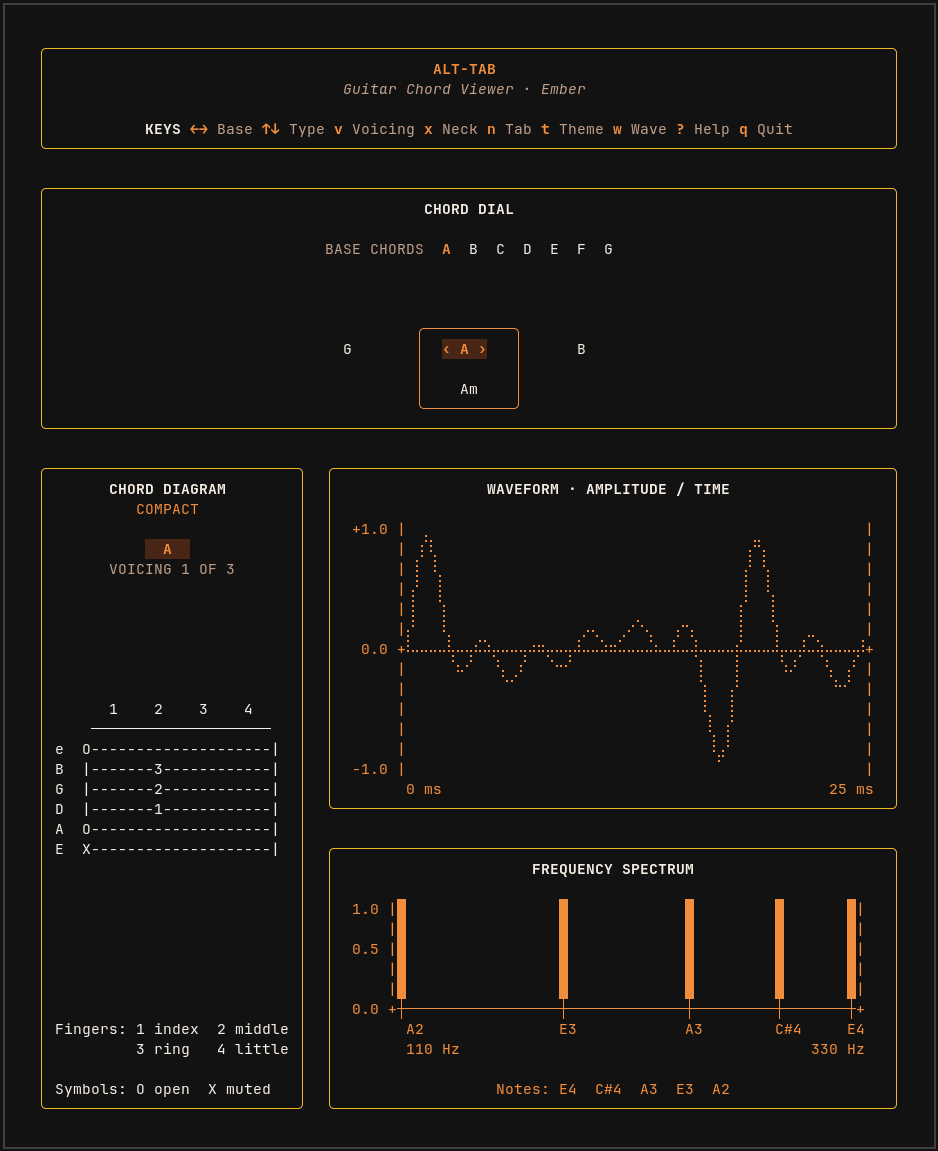
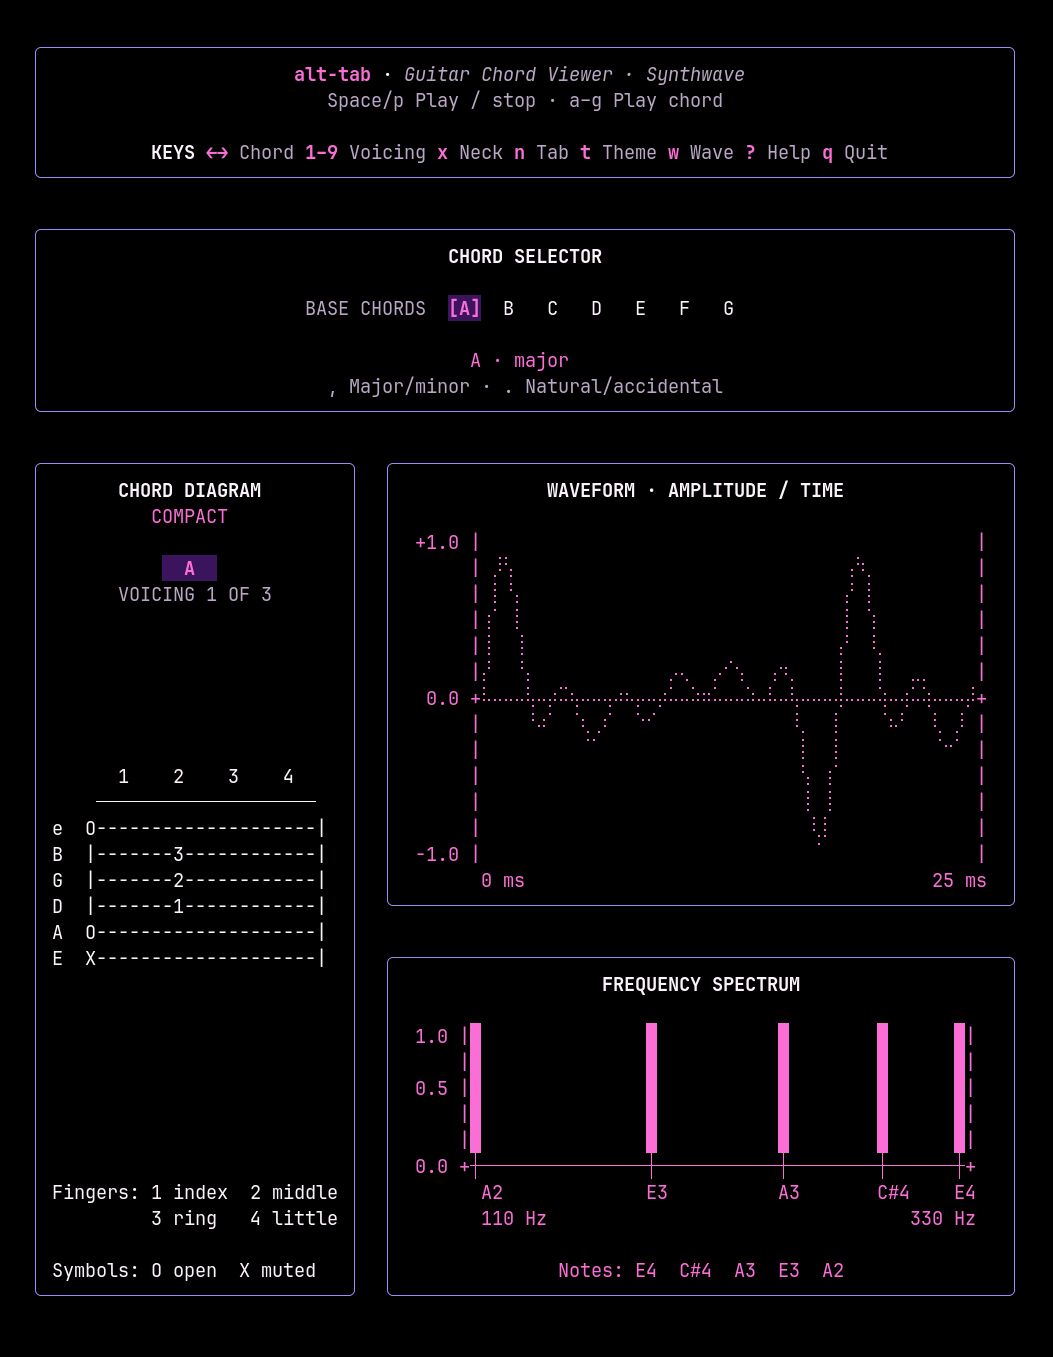
ui: make Synthwave the default theme

diff --git a/internal/tui/styles.go b/internal/tui/styles.go
@@ -29,13 +29,13 @@ type palette struct {
 // palettes are in cycling order, with the startup default first.
 var palettes = []palette{
 	{
-		name:       "Ember",
-		accent:     colorPair{light: "#C2410C", dark: "#FB923C"},
-		text:       colorPair{light: "#321A0F", dark: "#FFF7ED"},
-		muted:      colorPair{light: "#786052", dark: "#C6A58E"},
-		border:     colorPair{light: "#D97706", dark: "#FBBF24"},
-		selection:  colorPair{light: "#FFEDD5", dark: "#4A2615"},
-		errorColor: colorPair{light: "#B91C1C", dark: "#FF6B6B"},
+		name:       "Synthwave",
+		accent:     colorPair{light: "#A21CAF", dark: "#FF70D9"},
+		text:       colorPair{light: "#241331", dark: "#FFF7FF"},
+		muted:      colorPair{light: "#6B5A78", dark: "#BCAAC8"},
+		border:     colorPair{light: "#7C3AED", dark: "#A78BFA"},
+		selection:  colorPair{light: "#F3E8FF", dark: "#3B155E"},
+		errorColor: colorPair{light: "#B91C1C", dark: "#FF6B81"},
 	},
 	{
 		name:       "Neon Dark",
@@ -57,13 +57,13 @@ var palettes = []palette{
 		errorColor: colorPair{light: "#B91C1C", dark: "#FF7A90"},
 	},
 	{
-		name:       "Synthwave",
-		accent:     colorPair{light: "#A21CAF", dark: "#FF70D9"},
-		text:       colorPair{light: "#241331", dark: "#FFF7FF"},
-		muted:      colorPair{light: "#6B5A78", dark: "#BCAAC8"},
-		border:     colorPair{light: "#7C3AED", dark: "#A78BFA"},
-		selection:  colorPair{light: "#F3E8FF", dark: "#3B155E"},
-		errorColor: colorPair{light: "#B91C1C", dark: "#FF6B81"},
+		name:       "Ember",
+		accent:     colorPair{light: "#C2410C", dark: "#FB923C"},
+		text:       colorPair{light: "#321A0F", dark: "#FFF7ED"},
+		muted:      colorPair{light: "#786052", dark: "#C6A58E"},
+		border:     colorPair{light: "#D97706", dark: "#FBBF24"},
+		selection:  colorPair{light: "#FFEDD5", dark: "#4A2615"},
+		errorColor: colorPair{light: "#B91C1C", dark: "#FF6B6B"},
 	},
 	{
 		name:       "Tidal",

diff --git a/internal/tui/model_test.go b/internal/tui/model_test.go
@@ -190,7 +190,7 @@ func TestHeaderAndDialFillSharedWidthAndCenterContent(t *testing.T) {
 		t.Fatal("title banner and dial do not fill their shared section width")
 	}
 	for output, title := range map[string]string{
-		banner: "alt-tab · Guitar Chord Viewer · Ember",
+		banner: "alt-tab · Guitar Chord Viewer · Synthwave",
 		dial:   "CHORD SELECTOR",
 	} {
 		line := lineWith(output, title)
@@ -201,7 +201,7 @@ func TestHeaderAndDialFillSharedWidthAndCenterContent(t *testing.T) {
 			t.Fatalf("%s is not centered: left=%d right=%d", title, left, right)
 		}
 	}
-	if lineWith(banner, "Guitar Chord Viewer · Ember") == "" {
+	if lineWith(banner, "Guitar Chord Viewer · Synthwave") == "" {
 		t.Fatal("app subtitle is missing from the title line")
 	}
 }
@@ -478,8 +478,8 @@ func TestDiagramModesAndHelpToggle(t *testing.T) {
 // TestThemeToggleCyclesPalettes checks runtime switching and wraparound.
 func TestThemeToggleCyclesPalettes(t *testing.T) {
 	model := New(fakeCatalog{})
-	if model.theme != 0 || !strings.Contains(model.View().Content, "Ember") {
-		t.Fatal("new model does not use the Ember theme")
+	if model.theme != 0 || !strings.Contains(model.View().Content, "Synthwave") {
+		t.Fatal("new model does not use the Synthwave theme")
 	}
 
 	for index := 1; index <= len(palettes); index++ {

diff --git a/README.md b/README.md
@@ -55,7 +55,7 @@ Use a terminal at least 80 columns wide, or 98 for the full-neck view.
 
 In terminals that report key releases, hold `a`–`g` to play and release to stop.
 Other terminals toggle playback for that chord. `Space` / `p` works in either case.
-The initial theme is Ember; press `t` once for Neon Dark.
+The initial theme is Synthwave; press `t` once for Neon Dark.
 
 ## Audio
 
